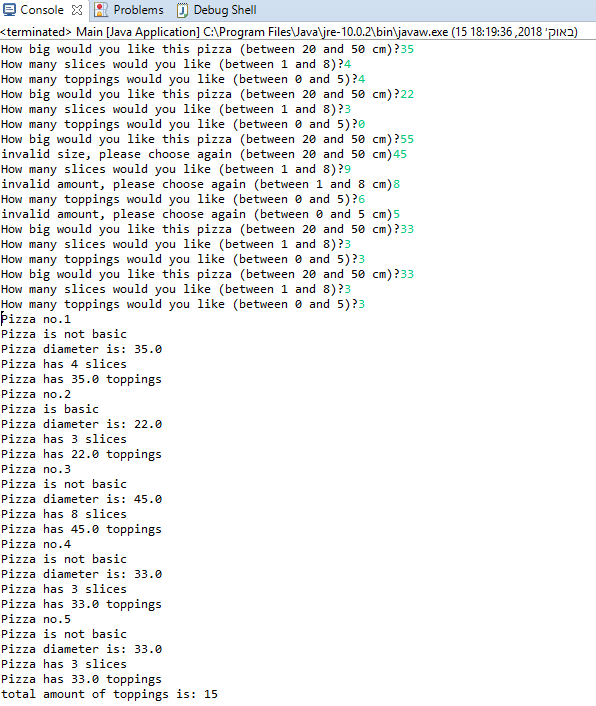
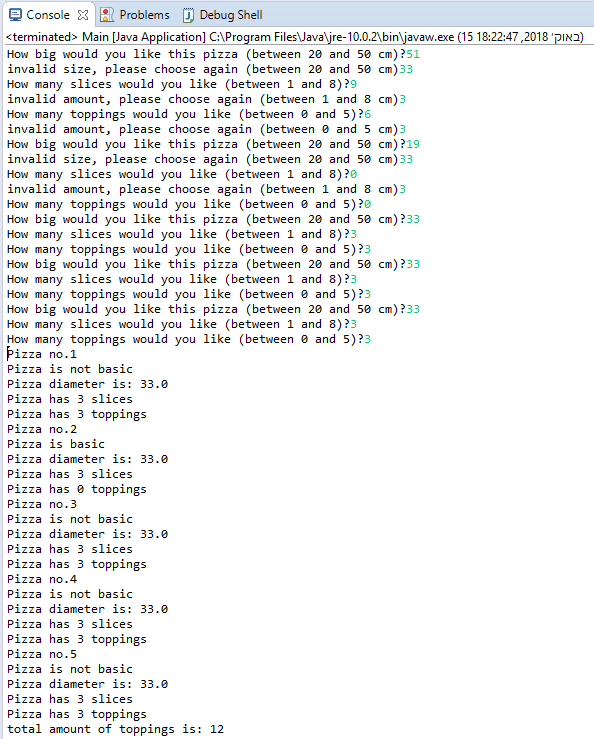
fix

Changed region(s): [[0.0, 0.0, 1.0, 1.0]]

diff --git a/HomeWorkPizzaria/src/pizzaria/Pizza.java b/HomeWorkPizzaria/src/pizzaria/Pizza.java
@@ -46,7 +46,7 @@ public class Pizza {
 	public void print() {
 		System.out.println("Pizza diameter is: "+this.getDiameter());
 		System.out.println("Pizza has "+this.getSlices()+" slices");
-		System.out.println("Pizza has "+this.getDiameter()+" toppings");
+		System.out.println("Pizza has "+this.getToppings()+" toppings");
 	}
 	public double getDiameter() {
 		return diameter;
